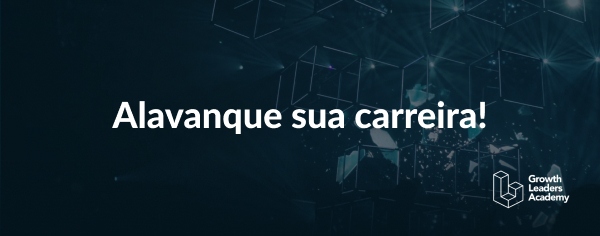
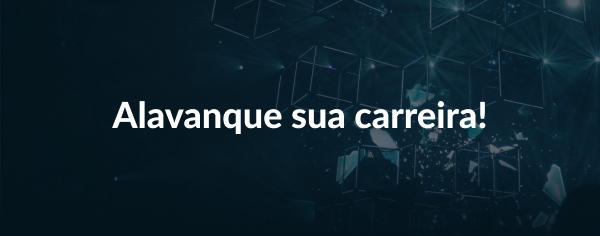
update

Changed region(s): [[0.81, 0.7119, 0.96, 0.8898]]

diff --git a/email_start.html b/email_start.html
@@ -70,7 +70,7 @@
                                             <td>
                                                 <img style="
                                                     width: 100%;
-                                                    max-width: 600px;" src="https://i.imgur.com/BON600K.jpg">
+                                                    max-width: 600px;" src="https://i.imgur.com/IhC1R3Z.jpg">
                                             </td>
                                         </tr>
                                     </table>
